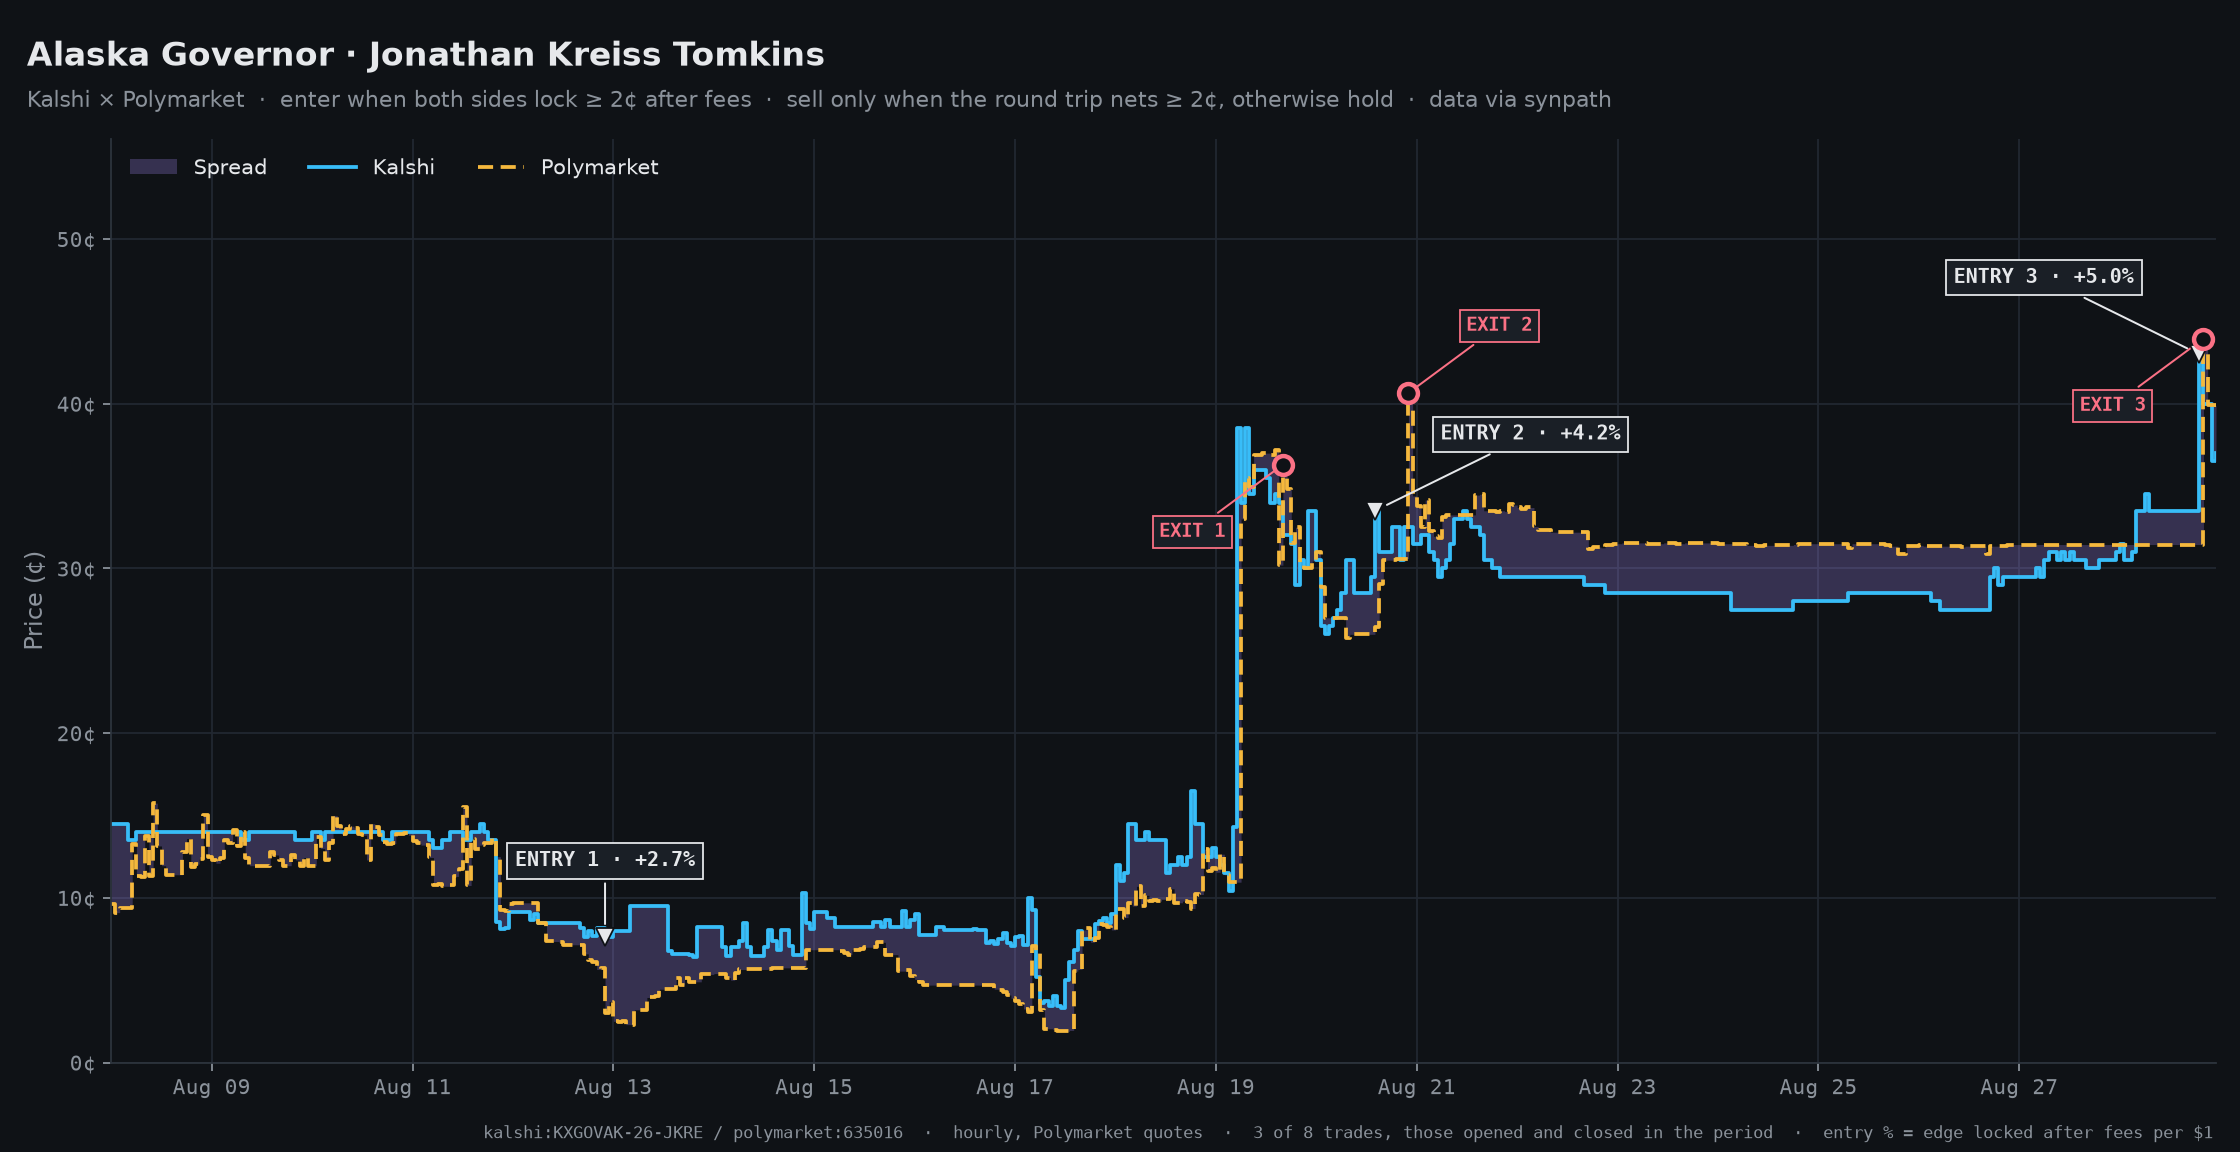
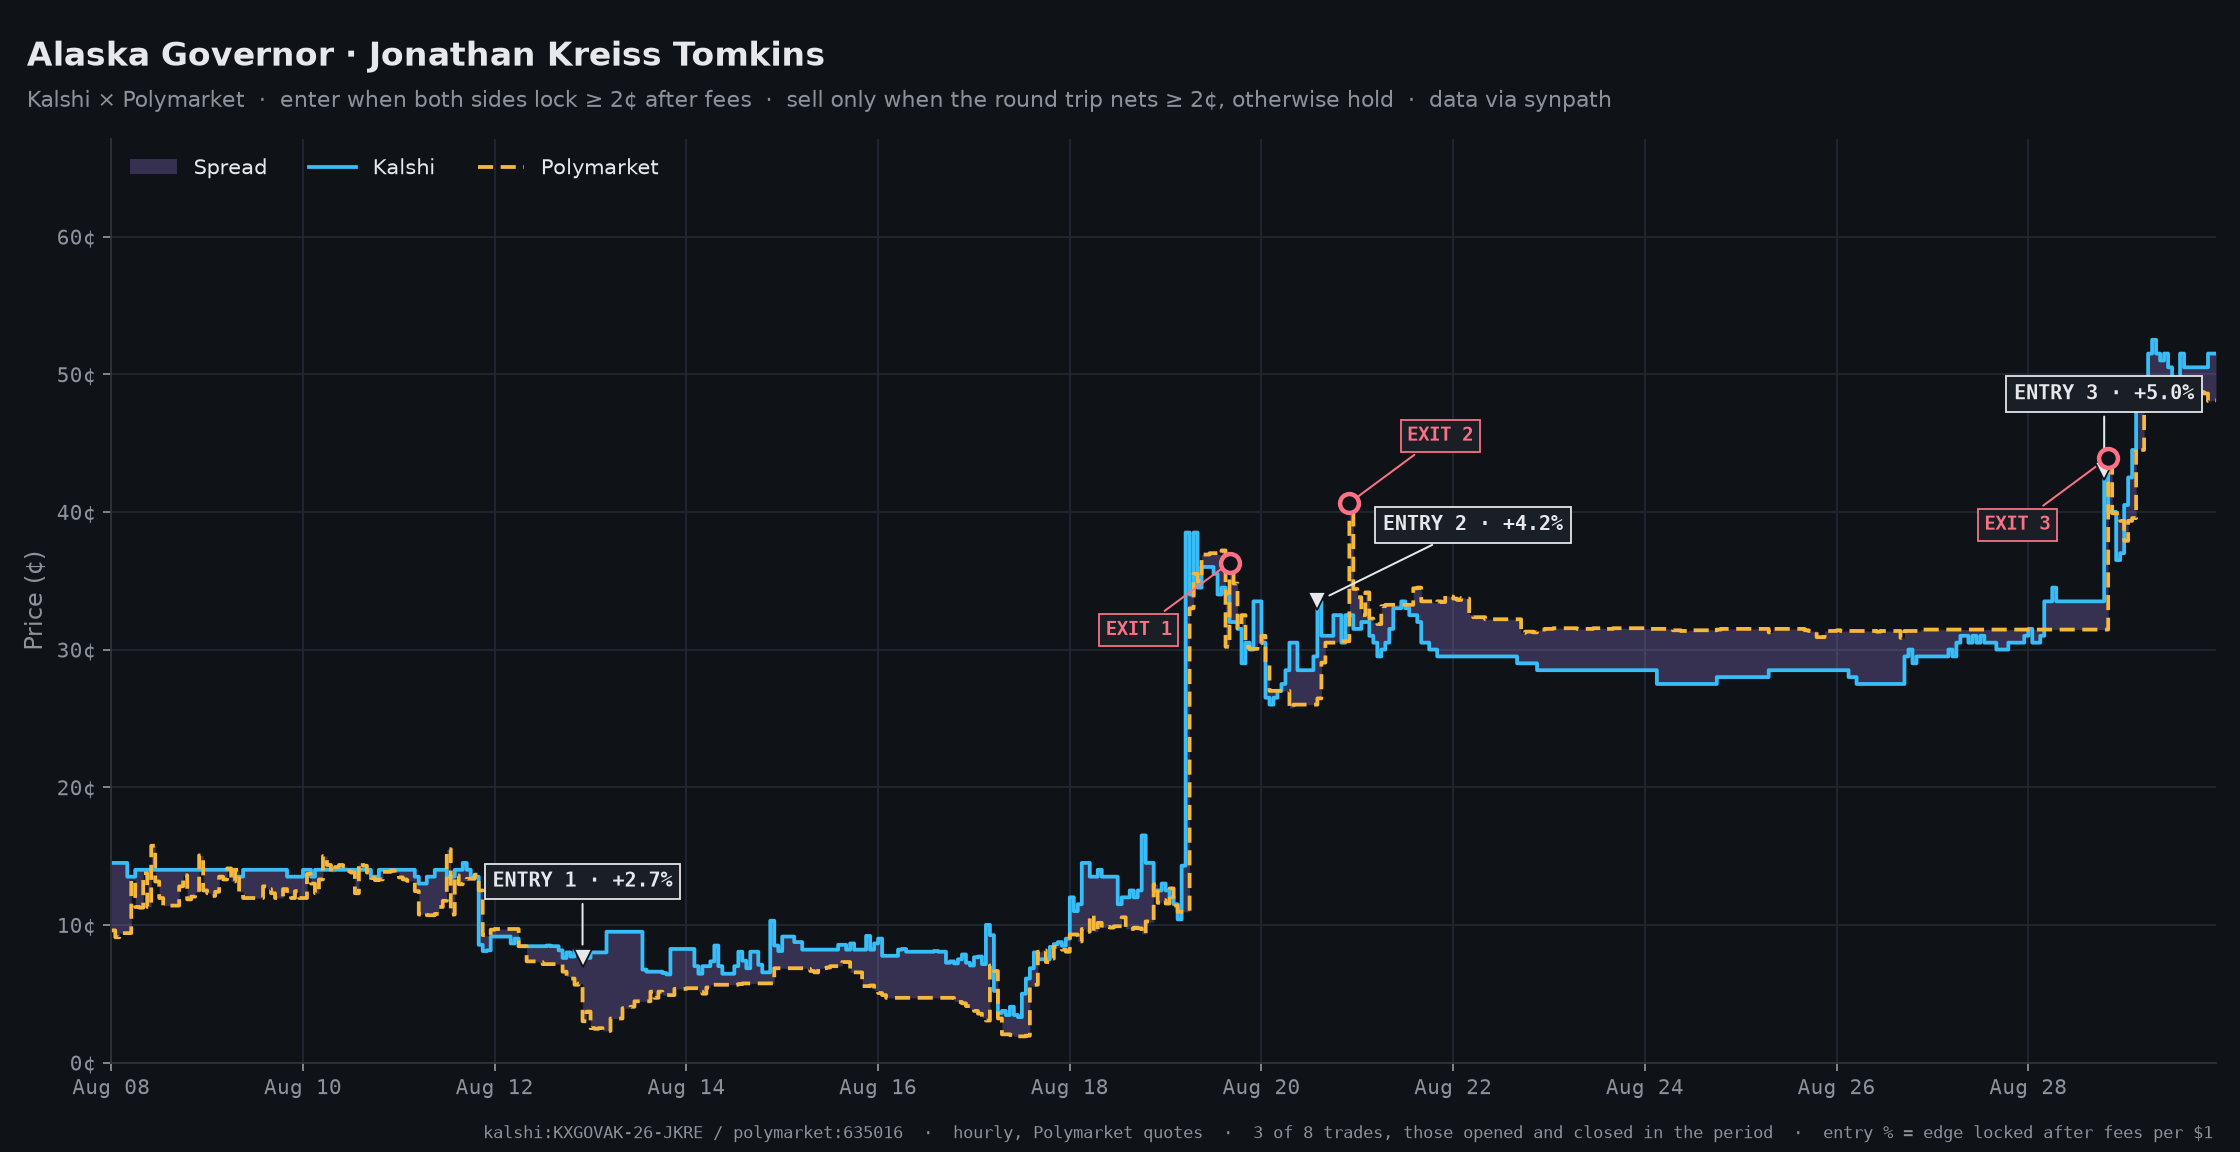
Alaska Governor charts: Aug 8 - 29

diff --git a/README.md b/README.md
@@ -47,7 +47,7 @@ A pair costs just under $1, so each entry at 1,000 contracts uses about $980, sp
 ![TX-15 entries and exits](assets/tx15_entries.png)
 ![TX-15 P&L](assets/tx15_pnl.png)
 
-### Alaska Governor, Aug 8 – 28
+### Alaska Governor, Aug 8 – 29
 
 ![Alaska entries and exits](assets/alaska_entries.png)
 ![Alaska P&L](assets/alaska_pnl.png)
